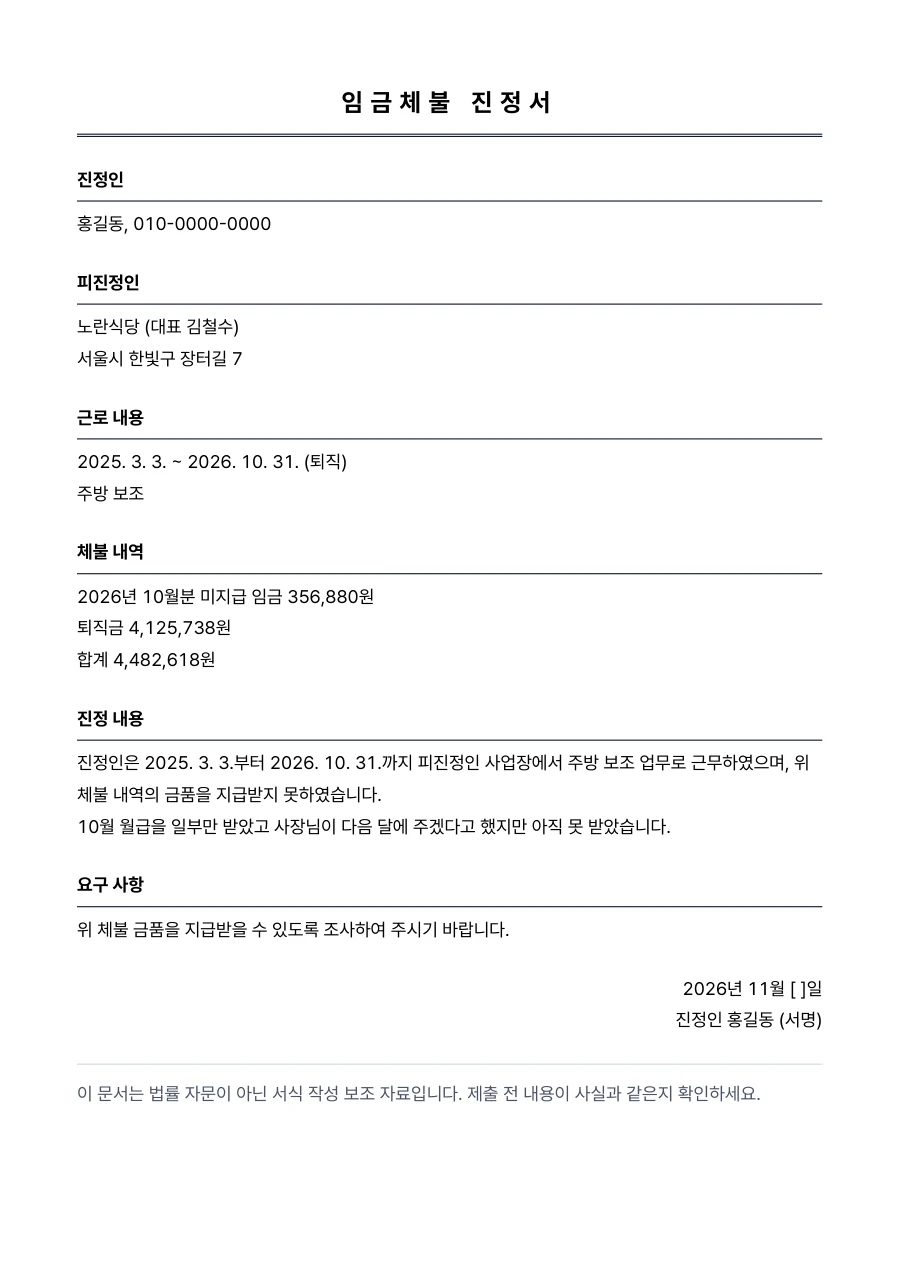
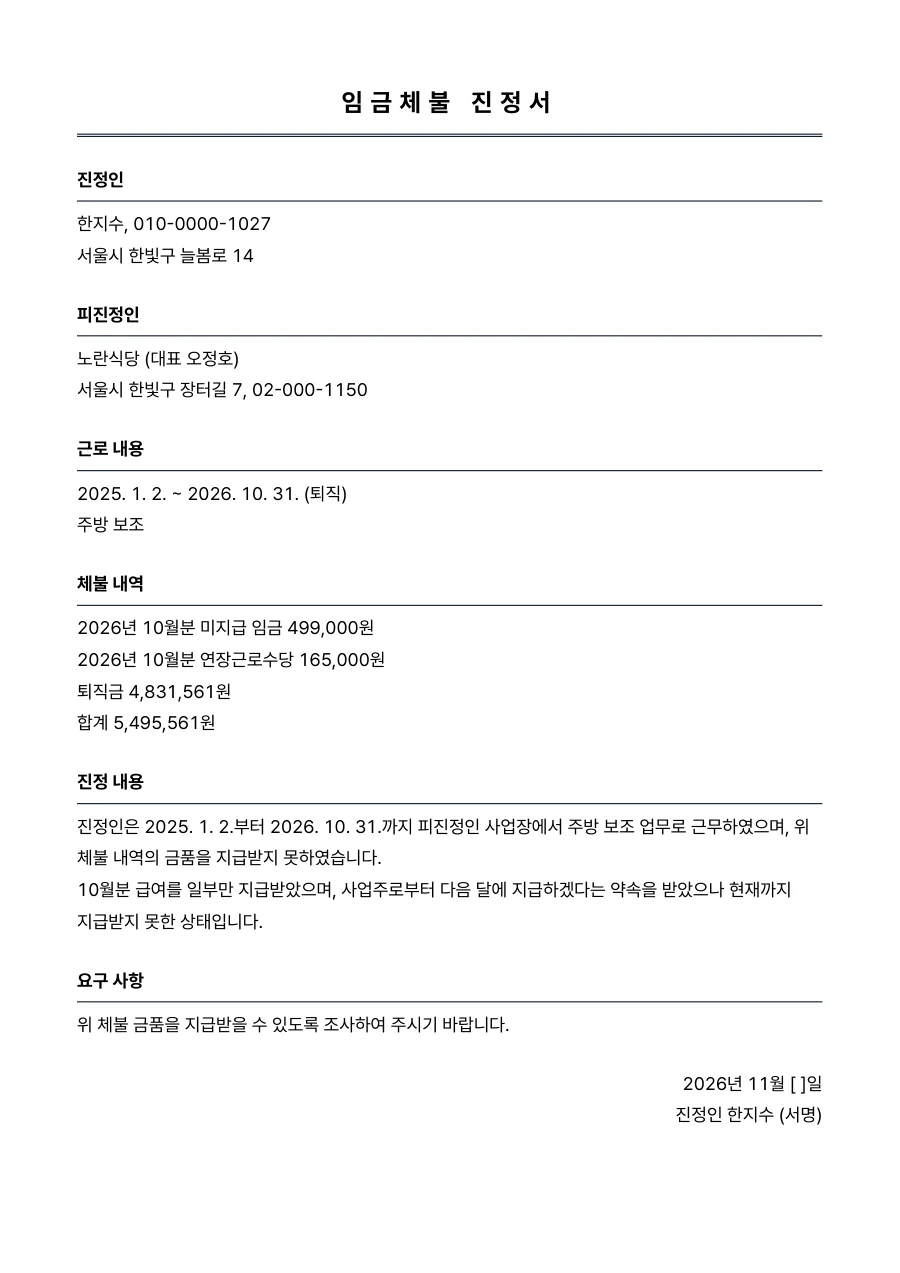
첫 화면 문서 그림 금액을 결과 화면 예시와 맞춤

diff --git a/src/main/resources/static/sw.js b/src/main/resources/static/sw.js
@@ -1,6 +1,6 @@
 // 설치형 웹앱 서비스워커: 화면 파일만 캐시해 인터넷이 끊겨도 화면이 열리게 한다.
 // API 응답(/api/) · 업로드 · 입력값은 절대 캐시하지 않는다 (개인정보 최소). 화면 파일을 바꾸면 VERSION 을 올린다
-var VERSION = 'wageback-v2-49';
+var VERSION = 'wageback-v2-50';
 var FILES = ['./', 'index.html', 'css/app.css', 'js/logo.js', 'js/app.js', 'js/vendor/qrcode.js', 'fonts/noran-sans.woff2', 'favicon.svg',
   'manifest.webmanifest', 'icons/icon-192.png', 'icons/icon-512.png', 'icons/icon-maskable-512.png',
   'i18n/languages.json', 'i18n/ko.json', 'i18n/en.json', 'i18n/vi.json', 'data/offices.json', 'data/guides.json', 'data/deadlines.json'];
